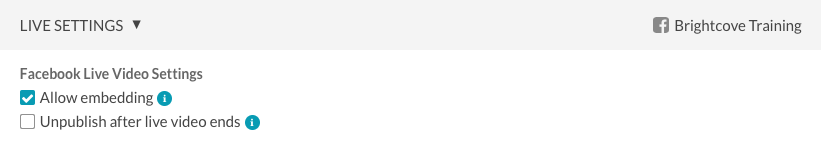
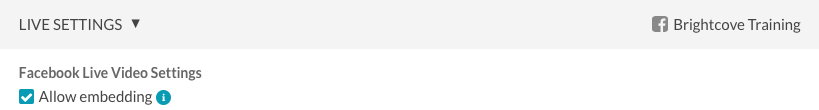
Live to FB doc update
https://brightcove.atlassian.net/browse/KNOW-21447

diff --git a/_site/live-module/publishing-live-event-facebook.html b/_site/live-module/publishing-live-event-facebook.html
@@ -557,7 +557,6 @@ function doGTranslate(lang_pair) {if(lang_pair.value)lang_pair=lang_pair.value;i
       <li>In the <strong>LIVE SETTINGS</strong> section, configure the <strong>Facebook Live Video Settings</strong> as appropriate.
         <ul>
           <li><strong>Allow embedding</strong> - If checked, video can be embedded on third-party sites</li>
-          <li><strong>Unpublish after live video ends</strong> - If checked, video will be unpublished (not visible to the public) when event ends</li>
         </ul>
         <figure class="bcls-figure"><img alt="" class="bcls-image--no-border" src="/assets/images/general/18749/node18749-live-settings.png" /></figure>
       </li>

diff --git a/live-module/publishing-live-event-facebook.html b/live-module/publishing-live-event-facebook.html
@@ -37,7 +37,6 @@ parent: Live Module
       <li>In the <strong>LIVE SETTINGS</strong> section, configure the <strong>Facebook Live Video Settings</strong> as appropriate.
         <ul>
           <li><strong>Allow embedding</strong> - If checked, video can be embedded on third-party sites</li>
-          <li><strong>Unpublish after live video ends</strong> - If checked, video will be unpublished (not visible to the public) when event ends</li>
         </ul>
         <figure class="bcls-figure"><img alt="" class="bcls-image--no-border" src="/assets/images/general/18749/node18749-live-settings.png" /></figure>
       </li>
